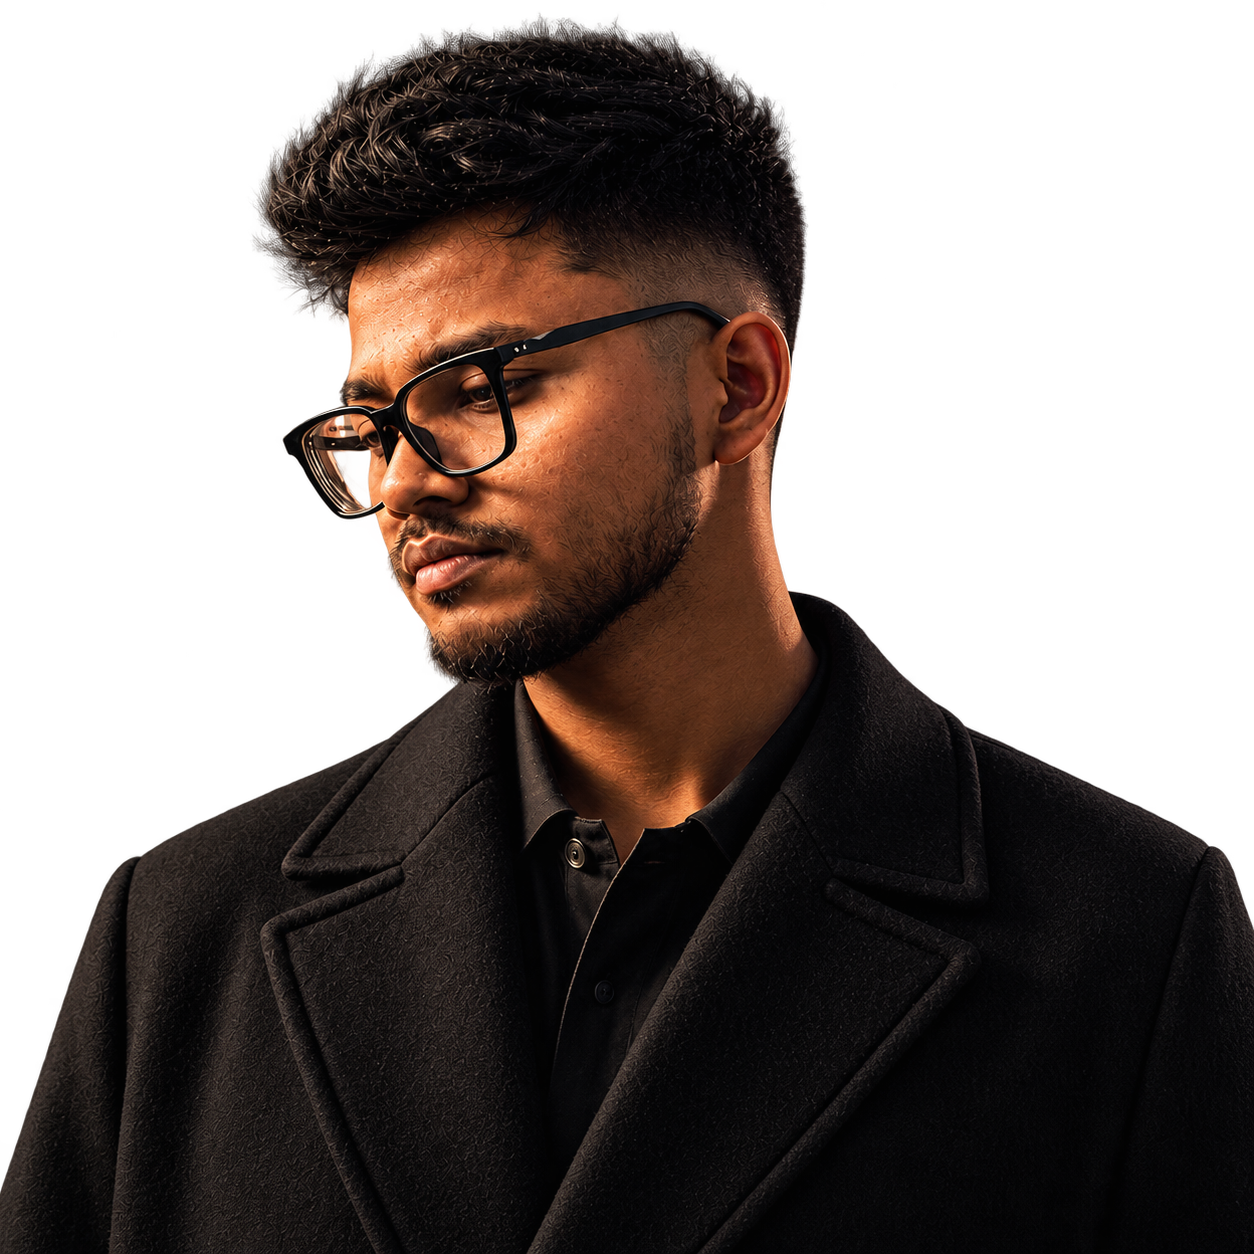
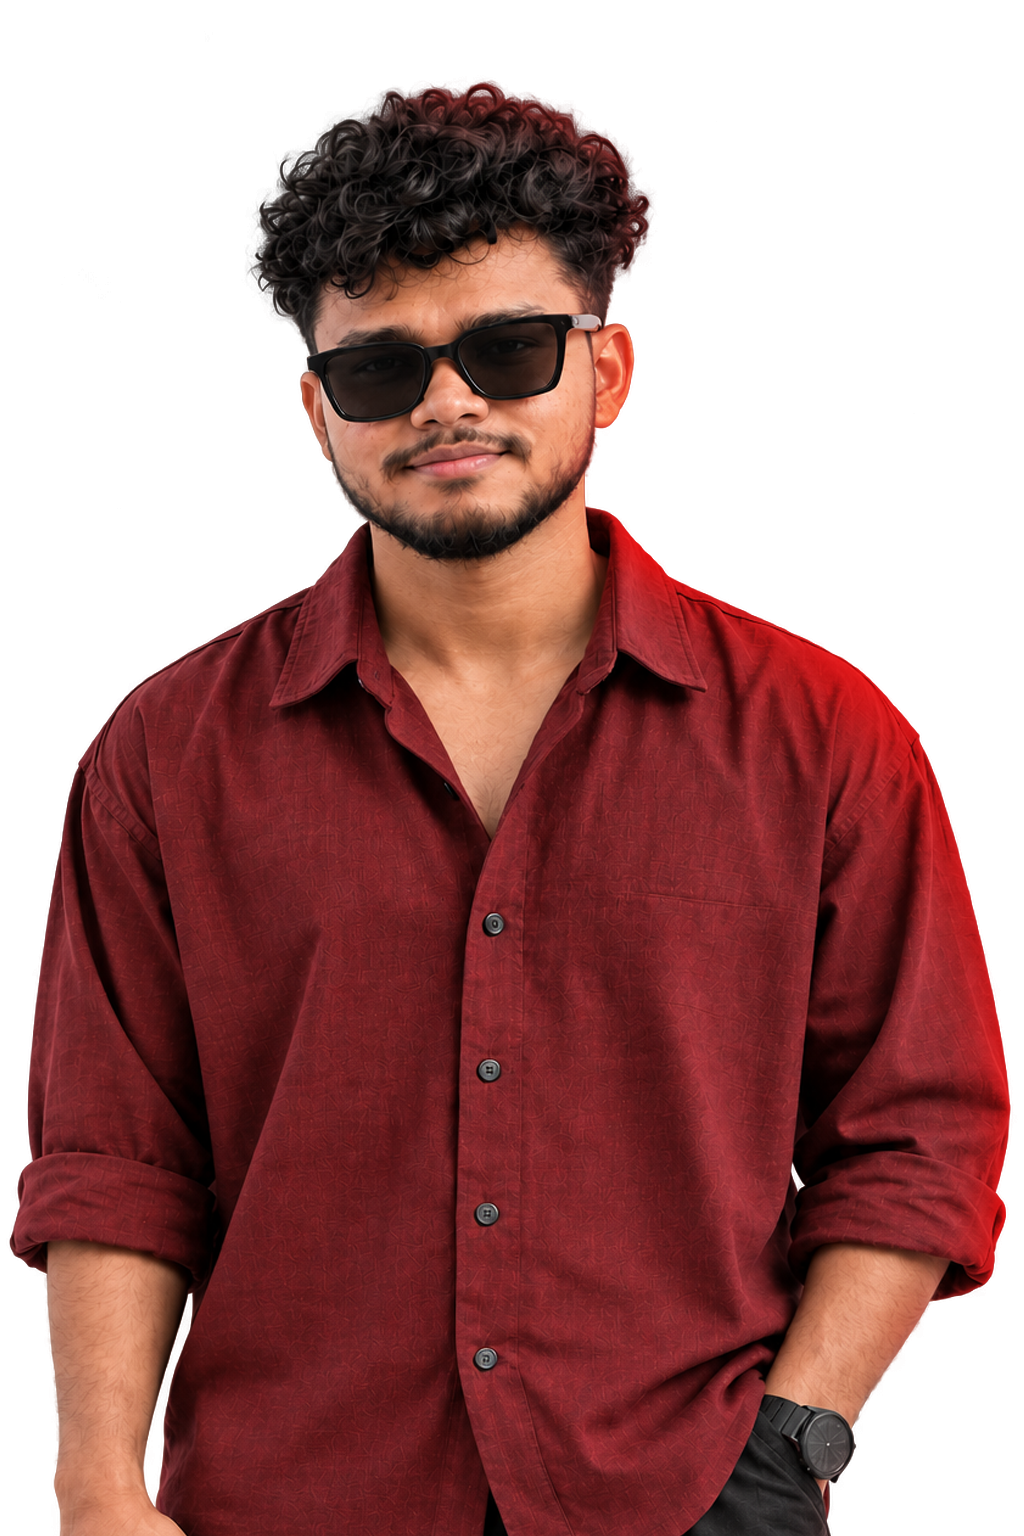
Add files via upload

diff --git a/style.css b/style.css
@@ -42,3 +42,45 @@
 /* V6 CLEANUP: single hero navigation + refined signature */
 body > header.nav{display:none!important}
 .signature{font-family:'Caveat',cursive!important;font-weight:600!important;letter-spacing:.01em!important}
+
+
+/* V7 ICON + PORTRAIT POLISH */
+.hero-art{overflow:visible!important}
+.app-icons{position:absolute!important;inset:0!important;z-index:20!important;pointer-events:none!important}
+.app-icon{position:absolute!important;display:grid!important;place-items:center!important;width:74px!important;height:74px!important;border-radius:18px!important;background:rgba(8,8,10,.72)!important;border:1px solid rgba(255,255,255,.18)!important;box-shadow:0 12px 35px rgba(0,0,0,.45),0 0 22px rgba(255,40,30,.12)!important;backdrop-filter:blur(8px)!important;transition:transform .25s ease,box-shadow .25s ease!important;pointer-events:auto!important}
+.app-icon:hover{box-shadow:0 16px 42px rgba(0,0,0,.55),0 0 30px rgba(255,55,35,.35)!important}
+.app-icon img{width:43px!important;height:43px!important;display:block!important}
+.app-icon.ps{left:8%!important;top:49%!important}
+.app-icon.ai{left:22%!important;bottom:11%!important}
+.app-icon.id{left:34%!important;top:35%!important}
+.app-icon.ae{right:20%!important;top:25%!important}
+.app-icon.lr{right:5%!important;top:48%!important}
+.app-icon.pr{right:8%!important;bottom:13%!important}
+.note-left,.note-right,.signature{display:none!important}
+.location-mark{right:8%!important;bottom:6%!important}
+.hero-type-back{z-index:2!important}
+.orbit-lines{z-index:4!important}
+.portrait-interactive{z-index:8!important}
+@media(max-width:800px){.app-icon{width:58px!important;height:58px!important;border-radius:15px!important}.app-icon img{width:34px!important;height:34px!important}.app-icon.ps{left:3%!important;top:45%!important}.app-icon.ai{left:18%!important;bottom:13%!important}.app-icon.id{left:31%!important;top:30%!important}.app-icon.ae{right:18%!important;top:22%!important}.app-icon.lr{right:2%!important;top:45%!important}.app-icon.pr{right:5%!important;bottom:12%!important}.location-mark{right:5%!important;bottom:3%!important}}
+
+
+/* V8 CINEMATIC PORTRAIT ORBIT */
+@import url('https://fonts.googleapis.com/css2?family=Bebas+Neue&display=swap');
+.hero-display{font-family:'Bebas Neue','Arial Narrow',Impact,sans-serif!important;font-weight:400!important;letter-spacing:.012em!important;line-height:.82!important}
+.hero-display span:first-child{font-size:1.02em!important;letter-spacing:.018em!important;text-shadow:0 0 28px rgba(255,50,30,.12)!important}
+.hero-display .outline-word{-webkit-text-stroke:1.6px #f5dfd4!important;letter-spacing:.02em!important}
+.hero-art{overflow:visible!important;isolation:isolate!important}
+.portrait-interactive{z-index:30!important;transition:transform .45s cubic-bezier(.2,.8,.2,1),filter .45s ease!important}
+.app-icons{z-index:24!important;pointer-events:none!important;transform-style:preserve-3d!important}
+.app-icon{pointer-events:none!important;width:78px!important;height:78px!important;border-radius:19px!important;overflow:visible!important;background:linear-gradient(145deg,rgba(42,44,52,.96),rgba(7,8,11,.96))!important;border:1px solid rgba(255,255,255,.28)!important;box-shadow:inset 0 1px 0 rgba(255,255,255,.22),inset 0 -10px 20px rgba(0,0,0,.28),0 18px 34px rgba(0,0,0,.5),0 0 22px rgba(255,40,30,.13)!important;backdrop-filter:none!important;will-change:transform,opacity!important;transition:transform .7s cubic-bezier(.16,1,.3,1),opacity .45s ease,box-shadow .3s ease!important}
+.app-icon:before{content:'';position:absolute;inset:3px;border-radius:16px;background:linear-gradient(145deg,rgba(255,255,255,.11),transparent 38%,rgba(0,0,0,.18));pointer-events:none}
+.app-icon:after{inset:-7px!important;border-radius:23px!important;border:1px solid rgba(255,70,45,.22)!important;filter:blur(3px)!important}
+.app-glyph{position:relative;z-index:2;font-family:Arial,sans-serif;font-size:31px;font-weight:800;letter-spacing:-.07em;text-shadow:0 2px 8px rgba(0,0,0,.35)}
+.app-icon.ps{background:linear-gradient(145deg,#0c3349,#07131c)!important}.app-icon.ps .app-glyph{color:#31a8ff}
+.app-icon.ai{background:linear-gradient(145deg,#5b2800,#160b02)!important}.app-icon.ai .app-glyph{color:#ff9a00}
+.app-icon.id{background:linear-gradient(145deg,#5a092e,#16040c)!important}.app-icon.id .app-glyph{color:#ff3366}
+.app-icon.ae{background:linear-gradient(145deg,#35265f,#100b1d)!important}.app-icon.ae .app-glyph{color:#c6a4ff}
+.app-icon.lr{background:linear-gradient(145deg,#073d55,#06151d)!important}.app-icon.lr .app-glyph{color:#31a8ff}
+.app-icon.pr{background:linear-gradient(145deg,#4a1760,#13061b)!important}.app-icon.pr .app-glyph{color:#c38bff}
+.portrait-hover .app-icon{box-shadow:0 5px 10px rgba(0,0,0,.18)!important}
+@media(max-width:800px){.hero-display{font-size:18vw!important}.app-icon{width:60px!important;height:60px!important}.app-glyph{font-size:24px}}

diff --git a/script.js b/script.js
@@ -4,6 +4,67 @@ window.addEventListener('mousemove',e=>{if(dot){dot.style.left=e.clientX+'px';do
 const reveals=document.querySelectorAll('.project,.process-grid > div,.about,.contact');
 if('IntersectionObserver' in window){const io=new IntersectionObserver(entries=>{entries.forEach(entry=>{if(entry.isIntersecting){entry.target.style.opacity='1';entry.target.style.transform='translateY(0)';io.unobserve(entry.target)}})},{threshold:.08});reveals.forEach(el=>{el.style.opacity='0';el.style.transform='translateY(28px)';el.style.transition='opacity .8s ease, transform .8s ease';io.observe(el)})}
 
-(()=>{const hero=document.querySelector('.interactive-hero');const art=document.querySelector('.hero-art');const portrait=document.querySelector('.portrait-interactive');const type=document.querySelector('.hero-type-back');const icons=[...document.querySelectorAll('.app-icon')];if(!hero||!art)return;let raf=0;function move(e){const r=art.getBoundingClientRect();const x=(e.clientX-r.left)/r.width-.5;const y=(e.clientY-r.top)/r.height-.5;hero.classList.add('is-hovered');cancelAnimationFrame(raf);raf=requestAnimationFrame(()=>{if(portrait)portrait.style.transform=`translate3d(${x*18}px,${y*-8}px,0) scale(1.018)`;if(type)type.style.transform=`translate3d(${x*-20}px,calc(-50% + ${y*-8}px),0)`;icons.forEach((icon,i)=>{const d=Number(icon.dataset.depth||1);icon.style.marginLeft=`${x*12*d}px`;icon.style.marginTop=`${y*10*d}px`})})}function leave(){hero.classList.remove('is-hovered');if(portrait)portrait.style.transform='';if(type)type.style.transform='';icons.forEach(icon=>{icon.style.marginLeft='';icon.style.marginTop=''})}art.addEventListener('mousemove',move);art.addEventListener('mouseenter',move);art.addEventListener('mouseleave',leave)})();
+(()=>{
+  const hero=document.querySelector('.interactive-hero');
+  const art=document.querySelector('.hero-art');
+  const portrait=document.querySelector('.portrait-interactive');
+  const type=document.querySelector('.hero-type-back');
+  const icons=[...document.querySelectorAll('.app-icon')];
+  if(!hero||!art||!portrait||!icons.length)return;
 
-const magnetic=document.querySelector('.magnetic');if(magnetic){magnetic.addEventListener('mousemove',e=>{const r=magnetic.getBoundingClientRect();magnetic.style.transform=`translate(${(e.clientX-r.left-r.width/2)*.1}px,${(e.clientY-r.top-r.height/2)*.1}px)`});magnetic.addEventListener('mouseleave',()=>magnetic.style.transform='')}
+  let raf=0;
+  let hoveringPortrait=false;
+  const orbitOffsets=[
+    {x:-250,y:-20,r:-12,s:1},
+    {x:-145,y:150,r:9,s:.98},
+    {x:-55,y:-150,r:-8,s:1.02},
+    {x:165,y:-150,r:10,s:1.04},
+    {x:245,y:-5,r:-8,s:.98},
+    {x:175,y:150,r:12,s:1.02}
+  ];
+
+  function render(e){
+    cancelAnimationFrame(raf);
+    raf=requestAnimationFrame(()=>{
+      const ar=art.getBoundingClientRect();
+      const x=(e.clientX-ar.left)/ar.width-.5;
+      const y=(e.clientY-ar.top)/ar.height-.5;
+      if(!hoveringPortrait){
+        if(type)type.style.transform=`translate3d(${x*-16}px,calc(-50% + ${y*-7}px),0)`;
+        portrait.style.transform=`translate3d(${x*12}px,${y*-7}px,0) scale(1.01)`;
+        icons.forEach((icon,i)=>{
+          const o=orbitOffsets[i]||{x:0,y:0,r:0,s:1};
+          const d=Number(icon.dataset.depth||1);
+          icon.style.transform=`translate3d(${x*18*d}px,${y*14*d}px,0) rotate(${o.r+x*5*d}deg) scale(${o.s})`;
+        });
+      }
+    });
+  }
+
+  function enterPortrait(){
+    hoveringPortrait=true;
+    hero.classList.add('portrait-hover');
+    portrait.style.transform='translate3d(0,0,0) scale(1.025)';
+    if(type)type.style.opacity='.18';
+    icons.forEach((icon,i)=>{
+      const o=orbitOffsets[i]||{x:0,y:0,r:0};
+      icon.style.transform=`translate3d(${o.x*.14}px,${o.y*.14}px,-40px) rotate(${o.r}deg) scale(.12)`;
+      icon.style.opacity='0';
+    });
+  }
+
+  function leavePortrait(){
+    hoveringPortrait=false;
+    hero.classList.remove('portrait-hover');
+    if(type)type.style.opacity='';
+    icons.forEach(icon=>icon.style.opacity='');
+  }
+
+  art.addEventListener('mousemove',render);
+  portrait.addEventListener('mouseenter',enterPortrait);
+  portrait.addEventListener('mouseleave',leavePortrait);
+  art.addEventListener('mouseleave',()=>{if(!hoveringPortrait){portrait.style.transform='';if(type)type.style.transform='';icons.forEach(icon=>{icon.style.transform='';icon.style.opacity=''})}});
+})();
+
+const magnetic=document.querySelector('.magnetic');
+if(magnetic){magnetic.addEventListener('mousemove',e=>{const r=magnetic.getBoundingClientRect();magnetic.style.transform=`translate(${(e.clientX-r.left-r.width/2)*.1}px,${(e.clientY-r.top-r.height/2)*.1}px)`});magnetic.addEventListener('mouseleave',()=>magnetic.style.transform='')}

diff --git a/index.html b/index.html
@@ -60,22 +60,18 @@
           <div class="orbit-lines" aria-hidden="true"><span></span><span></span><span></span></div>
 
           <div class="app-icons" aria-hidden="true">
-            <div class="app-icon ps" data-depth="1.2">Ps</div>
-            <div class="app-icon ai" data-depth="1.5">Ai</div>
-            <div class="app-icon id" data-depth="1.0">Id</div>
-            <div class="app-icon ae" data-depth="1.7">Ae</div>
-            <div class="app-icon lr" data-depth="1.3">Lr</div>
-            <div class="app-icon pr" data-depth="1.6">Pr</div>
-            <div class="app-icon cc" data-depth="1.9">Cc</div>
+            <div class="app-icon ps" data-depth="1.2"><span class="app-glyph">Ps</span></div>
+            <div class="app-icon ai" data-depth="1.5"><span class="app-glyph">Ai</span></div>
+            <div class="app-icon id" data-depth="1.0"><span class="app-glyph">Id</span></div>
+            <div class="app-icon ae" data-depth="1.7"><span class="app-glyph">Ae</span></div>
+            <div class="app-icon lr" data-depth="1.3"><span class="app-glyph">Lr</span></div>
+            <div class="app-icon pr" data-depth="1.6"><span class="app-glyph">Pr</span></div>
           </div>
 
           <div class="portrait-interactive" data-depth="0.45">
             <img src="portrait.png" alt="Subhajit, graphic and motion designer">
           </div>
 
-          <div class="art-note note-left">Ideas<br>into visuals <b>↗</b></div>
-          <div class="art-note note-right">Design<br>Motion<br>Brand<br>Repeat</div>
-          <div class="signature">Subhajit<span>•</span></div>
           <div class="location-mark"><i></i> BASED IN KOLKATA, INDIA</div>
         </div>
       </div>
